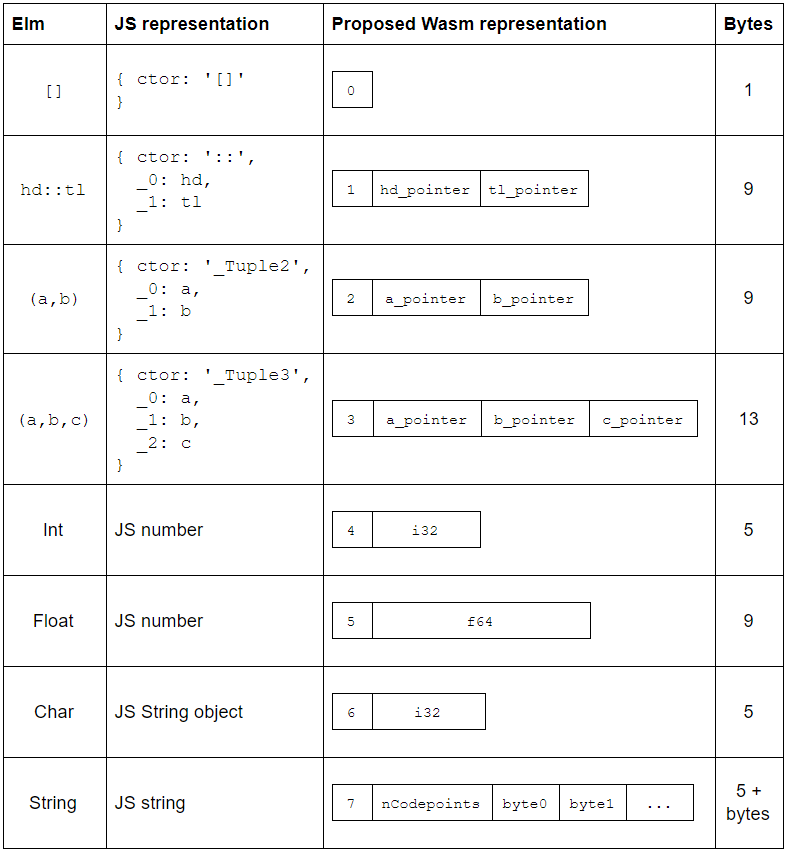
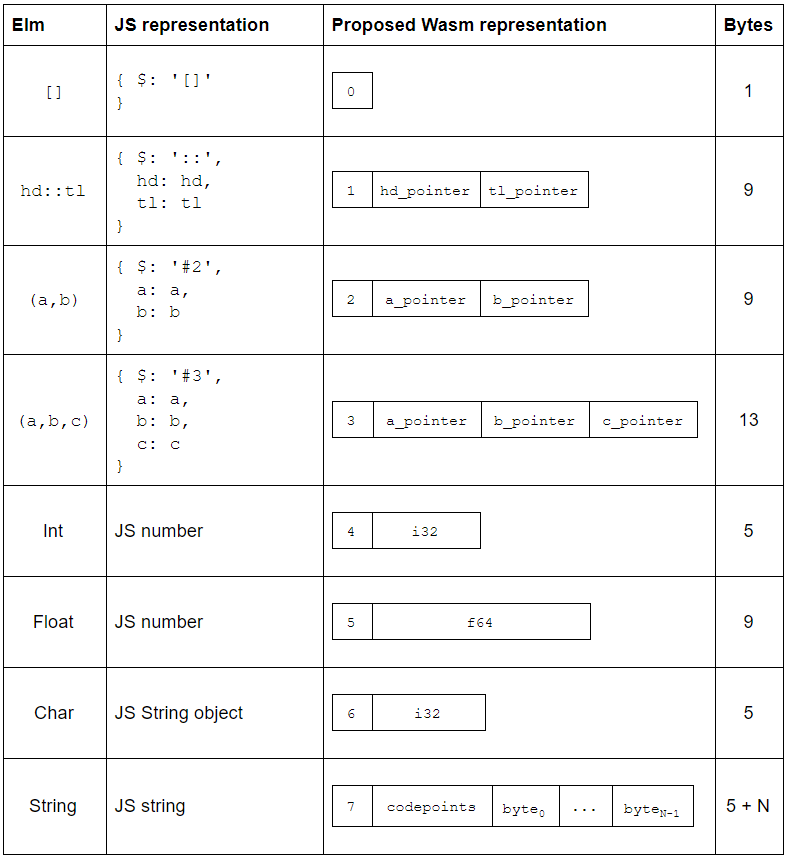
Change example to `compare` and update to 0.19

diff --git a/articles/value-representations.md b/articles/value-representations.md
@@ -15,41 +15,7 @@ By the way, WebAssembly is still an MVP and won’t really be ready for Elm unti
 
 ## Built-in types 
 
-Let's start with the fundamentals: `Int`, `Float`, `Char`, `String`, `List` and `Tuple`. You probably learned these during your first day or two learning Elm, but don't be deceived! There's actually a lot of subtlety under the covers here. We're going to look really closely at all this stuff that we normally take for granted, pick it all apart, and then piece it back together again.
-
-Let's open up the REPL and take a close look at the type of the "append" operator, `++`.
-
-```
-$ elm repl
----- elm-repl 0.18.0 -----------------------------------------------------------
- :help for help, :exit to exit, more at <https://github.com/elm-lang/elm-repl>
---------------------------------------------------------------------------------
-> "hello " ++ "world"
-"hello world" : String
-> [1.5, 2.5] ++ [3.5, 4.5]
-[1.5,2.5,3.5,4.5] : List Float
-> (++)
-<function> : appendable -> appendable -> appendable
-> 1 ++ 2
--- TYPE MISMATCH --------------------------------------------- repl-temp-000.elm
-The left argument of (++) is causing a type mismatch.
-3|   1 ++ 2
-     ^
-(++) is expecting the left argument to be a:
-    appendable
-But the left argument is:
-    Float
-Hint: Only strings, text, and lists are appendable.
-> 
-```
-
-OK so firstly, Elm is telling us that `++` is a function. That shouldn't shock us too much. "It's just a function" is kind of Elm's thing. I mean OK, it *looks* different. The name `++` is a symbol rather than a normal word, and it goes in between its arguments rather than before them. But that's all just "syntax sugar" to make the source code nice. When it comes to how things *work* underneath, `++` is "just a function".
-
-But check out that type signature. It operates on something called `appendable`. But when we actually *use* it, the REPL doesn't say it's an `appendable`! The first result is a `String` and the second is a `List Float`.
-
-As usual with Elm, the clue is in the error message! Some types are `appendable` and others aren't.
-
-## SuperTypes 
+Let's start with the fundamentals: `Int`, `Float`, `Char`, `String`, `List` and `Tuple`. You probably learned these during your first day or two learning Elm, but don't be deceived! There's actually a lot of subtlety under the covers here.
 
 The Elm compiler defines a few "SuperTypes". (Other languages call them "typeclasses", but the Elm compiler source code calls them SuperTypes, so I'm going to go with that.) This is the mechanism that allows some functions like `++`, `+` and `>`, to work on *more than one but not all* value types.
 
@@ -74,89 +40,79 @@ Here's a breakdown of which types belong to which SuperTypes
 
 \* Lists and tuples are only comparable if their contents are comparable
 
-Low-level functions that operate on SuperTypes need to be able to look at an Elm value at *runtime*, and decide which type it is. For example the append function `++` needs to check whether it's working with Strings or Lists, and execute different low-level code for each, since they're different data structures.
-
-We can't actually write code like that in Elm though, it has to be done in Kernel code. That's a deliberate choice in the language design. You can only use pattern matches to distinguish between values of the same type, not between values of different types.
-
-How does this runtime type inspection work? What's happening in that Kernel code? And can we do it in WebAssembly?
+Low-level functions that operate on SuperTypes need to be able to look at an Elm value at *runtime*, and decide which type it is. For example the `compare` function (which is the basis for  `<`, `>`, `<=`, and `>=`) can accept five different types, and needs to run different low-level code for each. Since Elm code can only pattern-match on values from the *same* type, this has to be done in Kernel code. Let's look at the JavaScript implementation, and then think about how a WebAssembly version might work.
 
 
 
-## JavaScript representations 
+## Comparables in JavaScript 
 
-Well we can just take a peek at the [Elm Kernel code on GitHub][GitHub] to see how it's done.
+Well Elm is open source, so we can just take a peek at the [Kernel code for `compare`][GitHub] to see how it's done. I've copied it below with modified comments. When reading this, focus on the *conditions* for the `if` statements and ignore everything else!
 
-[GitHub]: https://github.com/elm-lang/core/blob/5.1.1/src/Native/Utils.js#L241-L276
+[GitHub]: https://github.com/elm/core/blob/master/src/Elm/Kernel/Utils.js#L87-L120
 
 ```js
-var Nil = { ctor: '[]' };
-
-function Cons(hd, tl)
+function _Utils_cmp(x, y, ord) // Elm compiler will have ensured that x and y have the same type
 {
-	return {
-		ctor: '::',
-		_0: hd,
-		_1: tl
-	};
+	if (typeof x !== 'object') // True for JS numbers and strings (Elm Int, Float, and String)
+	{
+		return x === y ? /*EQ*/ 0 : x < y ? /*LT*/ -1 : /*GT*/ 1;
+	}
+
+	if (x instanceof String) // True for Elm Char
+	{
+		var a = x.valueOf();
+		var b = y.valueOf();
+		return a === b ? 0 : a < b ? -1 : 1;
+	}
+	
+	if (x.$[0] === '#') // True for Elm Tuples ('#2' or '#3')
+	{
+		return (ord = _Utils_cmp(x.a, y.a))
+			? ord
+			: (ord = _Utils_cmp(x.b, y.b))
+				? ord
+				: _Utils_cmp(x.c, y.c);
+	}
+
+    // If we got this far, we've got Lists
+    // traverse conses until end of a list or a mismatch
+	for (; x.b && y.b && !(ord = _Utils_cmp(x.a, y.a)); x = x.b, y = y.b) {} // WHILE_CONSES
+	return ord || (x.b ? /*GT*/ 1 : y.b ? /*LT*/ -1 : /*EQ*/ 0);
 }
-
-function append(xs, ys)
-{
-	// append Strings
-	if (typeof xs === 'string')
-	{
-		return xs + ys;
-	}
-
-	// append Lists
-	if (xs.ctor === '[]')
-	{
-		return ys;
-	}
-    /* ... 'Cons' code ... */
 ```
 
-Notice the JavaScript `typeof` operator in the `append` function. This is one of the techniques Elm uses to distinguish between the different types within a SuperType. It sometimes uses `instanceof` too.
+Elm integers, floats and strings compile to JavaScript primitives and can be identified using JavaScript's `typeof` operator. This is not something we'll have available in WebAssembly, so we'll have to find another way.
 
-And what's going on with `.ctor`? It's an abbreviation for 'constructor' and it exists on almost all of the Elm types that are represented as JavaScript objects. For example the List type has two constructors, `[]` (Nil) and `::` (Cons).
+The other Elm types are all represented as different object types. `Char` values are represented as String objects and can be identified using the `instanceof` operator. String objects are just a little bit of JS weirdness that doesn't matter here except it happens to be handy for Elm to distinguish `Char` from `String` in debug mode. Anyway, the important thing is that `instanceof` is not available in WebAssembly, and we need something else.
 
-`ctor` is mostly used to distinguish constructors within a type, but in some places it's also used to distinguish between Elm types. For example if `ctor` is `::` then we know we're looking at Cons cell in a List, but we also know we're not looking at a tuple, whose `ctor` would begin with `_Tuple`. So there's both constructor and type information in `ctor`. This fact is used in the [implementation of `compare`](https://github.com/elm-lang/core/blob/5.1.1/src/Native/Utils.js#L165), which operates on lots of types.
+In the next part of the function we get a clue that when Elm values are represented as JS objects, they normally have a `$` property. This is set to different values for different types. It's `#2` or `#3` for Tuples, `[]` or `::` for Lists, and can take on various other values for custom types and records.
 
-So what have we learned that we can use when thinking about WebAssembly?
+Aha! This `$` thing actually looks like something we can use! We can easily find a way to represent that as bytes. In fact, when you compile Elm 0.19 to JavaScript using `--optimize`, the `$` property becomes a number! The empty List has $=0, a Cons cell has $=1, Tuple2 has $=2 and Tuple3 has $=3. That's *really* easy to represent as bytes. It can just be a small header prepended to the value.
 
-Well, our data structures for Elm values need to contain enough information to distinguish between
+OK so that's fine for lists and tuples, but what about Int, Float, Char and String? Well the easiest approach is to just give them a header too.
 
-- types of the same SuperType
-- constructors of the same type
-
-However, in the case of WebAssembly we'll want to find a way of doing this with raw bytes as the `ctor`, rather than strings. (Strings are an abstraction we'll have to actually build ourselves from bytes.)
+Let's see what that system looks like.
 
 
 
-## Proposed WebAssembly representations
+## Comparables in WebAssembly
 
-A proposed set of representations is depicted below. Each value amongst the basic types is prepended with a single byte that behaves similarly to the `ctor` field in JavaScript.
+A proposed set of representations is depicted below. Each value amongst the basic types is prepended with a single byte that behaves similarly to the `$` field in JavaScript.
 
-(Note that I'm only considering tuples of size 2 and 3 in this scheme. This could be extended later with an extra field, but 2 and 3 are the most common cases.)
-
-<img src="./value-representations.png" />
-
-
+<img src='./value-representations.png' />
 
 Using these representations, we can distinguish between any of the values that are members of `comparable`,  `appendable`, or`number`.
 
 For example, to add two Elm `number`values, the algorithm would be:
 
 - If constructor is 5 (`Float`)
-  - Do floating-point addition
+  - Do floating-point addition (f64.add)
 - else
-  - Do integer addition
+  - Do integer addition (i32.add)
 
 This is great because in WebAssembly, integer and floating-point addition are different instructions. We're not allowed to be ambiguous about it like in JavaScript.
 
 We can use similar algorithms to distinguish String (7) from List (0 or 1) for `appendable`.
-
-And finally, the implementation of `compare` will handle all cases from 0-7, which is sufficient to cover all the possible values it can operate on. Although it will need to check recursively on lists and tuples.
 
 
 
@@ -174,7 +130,7 @@ Of course there are tradeoffs! Let's have a look at some of the main ones before
 
 ## What do other languages do differently?
 
-OCaml is a great language to compare Elm with. It's from the same language family. And like Elm, but unlike Haskell, it's eagerly evaluated.
+OCaml is a great language to compare Elm with. It's from the same language family. And like Elm, it's eagerly evaluated.
 
 
 
